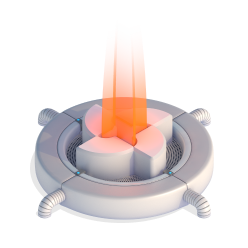
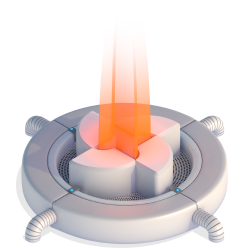
Make the hero images a bit larger, all of them

diff --git a/src/components/shared/HeroImage/index.jsx b/src/components/shared/HeroImage/index.jsx
@@ -6,23 +6,23 @@ import { SM, MD, LG } from '$utils/css'
 import CobaltImage from './CobaltImage'
 
 const Img = styled.div`
-    height: 102px;
+    height: 120px;
     margin: 0 auto;
-    width: 102px;
+    width: 120px;
 
     @media (min-width: ${SM}px) {
-        height: 116px;
-        width: 116px;
+        height: 144px;
+        width: 144px;
     }
 
     @media (min-width: ${MD}px) {
-        height: 134px;
-        width: 134px;
+        height: 160px;
+        width: 160px;
     }
 
     @media (min-width: ${LG}px) {
-        height: 160px;
-        width: 160px;
+        height: 192px;
+        width: 192px;
     }
 `
 
@@ -31,7 +31,7 @@ const images = {
     golem: <StaticImage as={Img} src="golem.png" alt="Golem" />,
     hive: <StaticImage as={Img} src="hive.png" alt="Hive" />,
     huxtaburger: <StaticImage as={Img} src="huxtaburger.png" alt="Huxtaburger" />,
-    streamr: <StaticImage as={Img} src="streamr.png" alt="Streamr" />,
+    streamr: <StaticImage as={Img} src="streamr@2x.png" alt="Streamr" />,
     vizor: <StaticImage as={Img} src="vizor.png" alt="Vizor" />,
 }
 

diff --git a/src/pages/golem.jsx b/src/pages/golem.jsx
@@ -61,7 +61,7 @@ const GolemPage = () => (
                 <Hero>
                     <p>
                         We worked on user experience design for the cryptocurrency-based shared
-                        computing project, as&nbsp;well as a brand that didn’t see the light of day.
+                        computing project, as&nbsp;well as a brand that didn&apos;t see the light of&nbsp;day.
                     </p>
                 </Hero>
             </Section>
